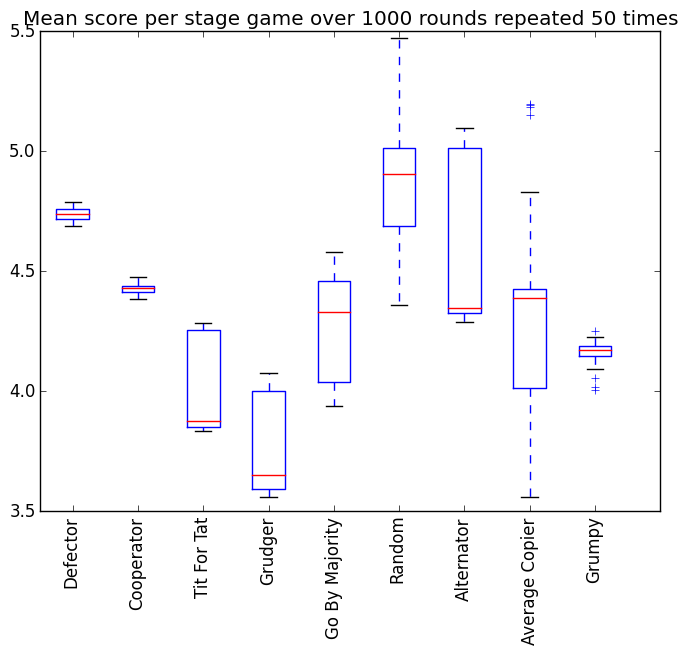
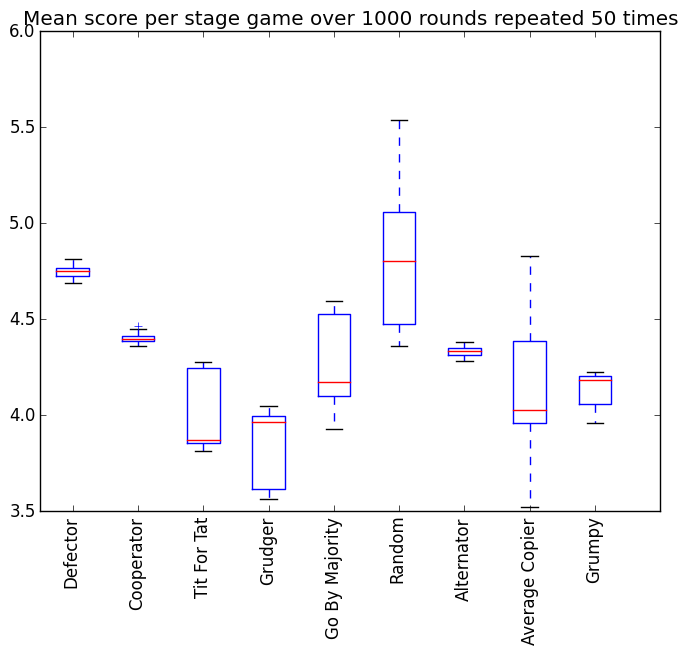
Moving how the reset method works - now does not reset score

diff --git a/axelrod/tournament.py b/axelrod/tournament.py
@@ -32,8 +32,8 @@ class Axelrod:
         """
         for p1, p2 in itertools.combinations(self.players, 2):
             turn = 0
-            p1.history = []
-            p2.history = []
+            p1.reset()
+            p2.reset()
             while turn < turns:
                 turn += 1
                 p1.play(p2)
@@ -49,18 +49,11 @@ class Axelrod:
         """
         dic = {player:[] for player in self.players}
         for repetition in range(repetitions):
-            self.reset_players()
             self.round_robin(turns=200)
             for player in self.players:
-                dic[player].append(player.score)
+                dic[player].append(player.score)  # Record score
+                player.score = 0  # Reset score
         return dic
-
-    def reset_players(self):
-        """
-        Resets all the player histories
-        """
-        for player in self.players:
-            player.reset()
 
     def calculate_scores(self, p1, p2):
         """
@@ -110,7 +103,7 @@ class Player:
 
     def reset(self):
         """
-        Resets scores and history
+        Resets history.
+        When creating strategies that create new attributes then this method should be re-written (in the inherited class) and should not only reset history but also rest all other attributes.
         """
         self.history = []
-        self.score = 0

diff --git a/axelrod/strategies/grumpy.py b/axelrod/strategies/grumpy.py
@@ -24,7 +24,7 @@ class Grumpy(Player):
         Won't become nice once that grumpy threshold is hit, but must reach a much lower threshold before it becomes nice again.
         """
 
-        self.grumpiness = sum(play=='D' for play in opponent.history) - sum(play=='C' for play in opponent.history) 
+        self.grumpiness = sum(play=='D' for play in opponent.history) - sum(play=='C' for play in opponent.history)
 
         if self.state == 'Nice':
             if self.grumpiness > self.grumpy_threshold:
@@ -37,16 +37,15 @@ class Grumpy(Player):
                 self.state = 'Nice'
                 return 'C'
             return 'D'
-    
+
     def reset(self):
         """
         Resets score, history and state for the next round of the tournement
         """
-        
+
         self.history = []
-        self.score = 0
         self.state = self.starting_state
-    
+
     def __repr__(self):
         """
         The string method for the strategy:

diff --git a/axelrod/tests/test_tournament.py b/axelrod/tests/test_tournament.py
@@ -106,21 +106,6 @@ class Tournament(unittest.TestCase):
        ('Grudger', [2001, 2001, 2001, 2001, 2001]),
        ('Go By Majority', [2001, 2001, 2001, 2001, 2001])]))
 
-    def test_reset_players(self):
-        """
-        Test that method to reset scores in between repetitions of tournament works
-        """
-        P1 = axelrod.Defector()
-        P1.score = 58
-        P1.history = ['C', 'C', 'D']
-        P2 = axelrod.Defector()
-        P2.score = 95
-        P2.history = ['C', 'D', 'D']
-        tournament = axelrod.Axelrod(P1, P2)
-        tournament.reset_players()
-        self.assertEqual([0, 0],[player.score for player in tournament.players])
-        self.assertEqual([[], []],[player.history for player in tournament.players])
-
     def test_calculate_score_for_mix(self):
         """
         Test that scores are calculated correctly

diff --git a/axelrod/tests/test_grumpy.py b/axelrod/tests/test_grumpy.py
@@ -55,10 +55,8 @@ class TestGrumpy(unittest.TestCase):
         """
         P1 = axelrod.Grumpy(starting_state = 'Grumpy')
         P1.history = ['C', 'D', 'D', 'D']
-        P1.score = 5
         P1.state = 'Nice'
         P1.reset()
         self.assertEqual(P1.history, [])
-        self.assertEqual(P1.score, 0)
         self.assertEqual(P1.state, 'Grumpy')
-        
+
